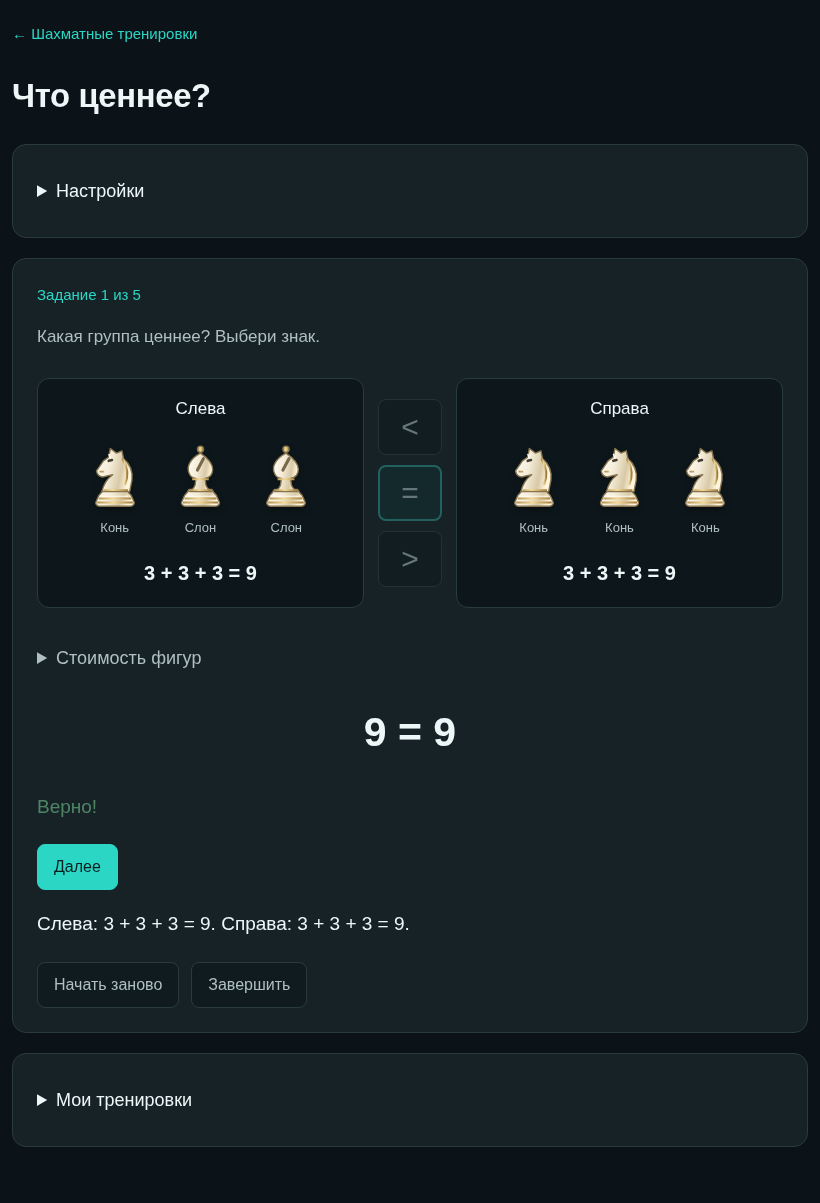
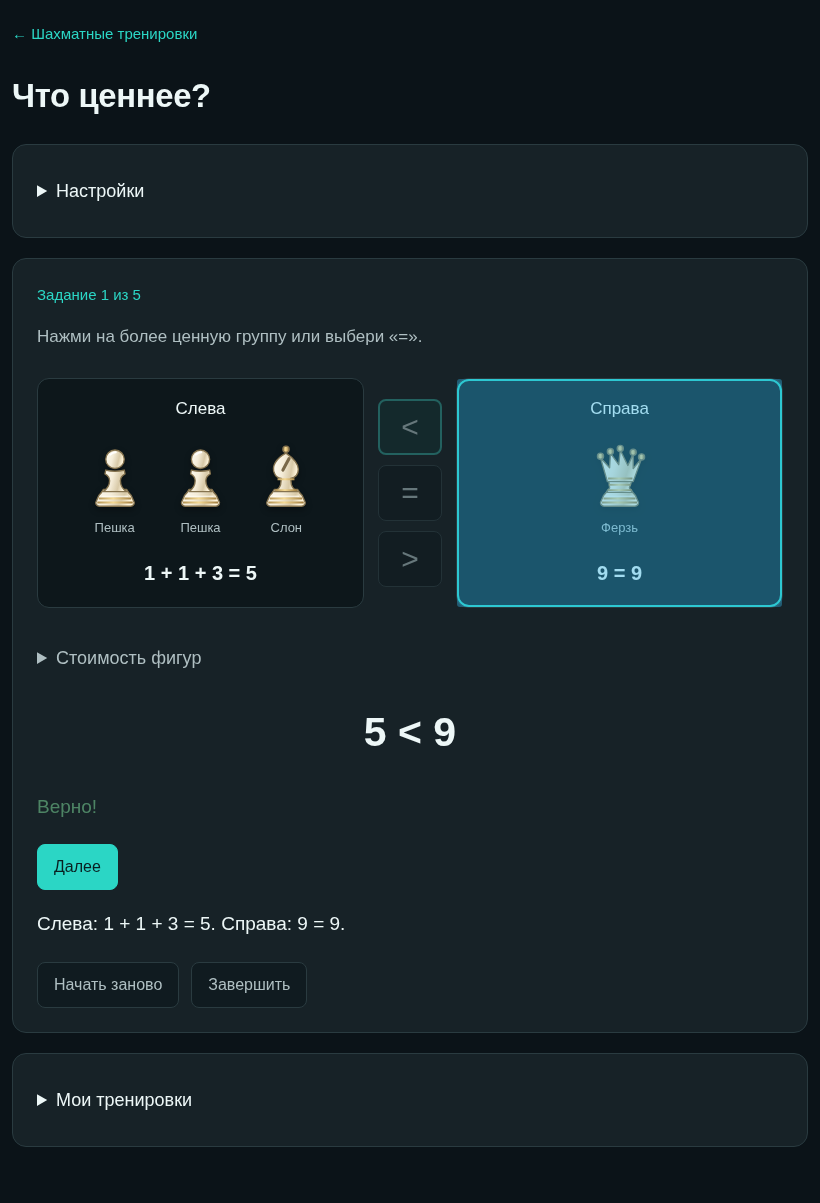
Allow selecting material groups by tapping entire panels

diff --git a/src/modules/mathlab/index.ts b/src/modules/mathlab/index.ts
@@ -238,16 +238,23 @@ function mountExercise(root:HTMLElement,ctx:AppContext,id:Exercise):Unmount {
  }
  function drawMaterial(){
   if(!task?.left||!task.right)return;
-  surface.replaceChildren(el('p',{class:'ml-instruction'},['Какая группа ценнее? Выбери знак.']));
-  const group=(pieces:MaterialPiece[],title:string)=>el('section',{class:'ml-material-group','aria-label':title},[
+  surface.replaceChildren(el('p',{class:'ml-instruction'},['Нажми на более ценную группу или выбери «=».']));
+  const choose=(value:number)=>{
+   if(phase!=='answer'||!task)return;
+   surface.querySelectorAll<HTMLElement>('[data-material-answer]').forEach(control=>control.setAttribute('aria-pressed',String(Number(control.dataset.materialAnswer)===value)));
+   submit(task.answer===value,value===0?'=':value>0?'>':'<');
+  };
+  const group=(pieces:MaterialPiece[],title:string,value:number)=>el('section',{class:'ml-material-group','aria-label':title},[
+   Object.assign(el('button',{type:'button',class:'ml-material-pick','aria-label':value===1?'Выбрать левую группу':'Выбрать правую группу','aria-pressed':'false','data-material-answer':String(value)}),{onclick:()=>choose(value)}),
    el('h3',{},[title]),el('div',{class:'ml-material-pieces'},pieces.map(p=>el('figure',{class:'ml-material-piece'},[el('img',{src:`${import.meta.env.BASE_URL}piece/ivory/w${p}.svg`,alt:PIECE_NAMES[p],draggable:'false'}),el('figcaption',{'aria-hidden':'true'},[PIECE_NAMES[p]])])))
   ]);
   const choices=el('div',{class:'ml-material-choices',role:'group','aria-label':'Сравнение стоимости'});
   for(const [sign,label,value] of [['<','Слева дешевле',-1],['=','Одинаковая стоимость',0],['>','Слева дороже',1]] as const){
-   const choice=button(sign,()=>{if(phase!=='answer')return;choice.setAttribute('aria-pressed','true');submit(task!.answer===value,sign);});
+   const choice=button(sign,()=>choose(value));
+   choice.dataset.materialAnswer=String(value);
    choice.setAttribute('aria-label',label);choice.setAttribute('aria-pressed','false');choices.append(choice);
   }
-  surface.append(el('div',{class:'ml-material-comparison'},[group(task.left,'Слева'),choices,group(task.right,'Справа')]));
+  surface.append(el('div',{class:'ml-material-comparison'},[group(task.left,'Слева',1),choices,group(task.right,'Справа',-1)]));
   const reference=el('details',{class:'ml-material-reference'},[el('summary',{},['Стоимость фигур'])]);
   reference.addEventListener('toggle',()=>{if(reference.open&&phase==='answer')hintUsed=true;});
   reference.append(el('p',{},['Пешка — 1 · Конь — 3 · Слон — 3 · Ладья — 5 · Ферзь — 9']));surface.append(reference);

diff --git a/src/modules/mathlab/styles.css b/src/modules/mathlab/styles.css
@@ -86,3 +86,9 @@
 .mathlab .ml-material-piece{display:flex;flex-direction:column;align-items:center;gap:6px;margin:0;padding:6px 2px}
 .mathlab .ml-material-piece figcaption{font-size:13px;line-height:1.3;color:var(--fg)}
 .mathlab .ml-material-piece img{object-fit:contain;filter:drop-shadow(0 3px 3px #0005)}
+
+.mathlab .ml-material-group{position:relative}
+.mathlab .ml-material-pick{position:absolute;inset:0;z-index:1;width:100%;height:100%;padding:0;border:0;border-radius:inherit;background:transparent;cursor:pointer;touch-action:manipulation}
+.mathlab .ml-material-pick[aria-pressed=true]{background:transparent;box-shadow:inset 0 0 0 2px var(--ml-teal)}
+.mathlab .ml-material-pick:disabled{cursor:default;opacity:1}
+@media(hover:hover){.mathlab .ml-material-pick:not(:disabled):hover{box-shadow:inset 0 0 0 2px var(--ml-teal)}}

diff --git a/docs/material/README.md b/docs/material/README.md
@@ -2,7 +2,7 @@
 
 Шахматные тренировки → Что ценнее?, маршрут `#material`.
 
-Две группы по 1–3 фигуры, стоимость группы не больше 15. Учебная шкала: пешка 1, конь/слон 3, ладья 5, ферзь 9. Король не участвует. Сравнивается только материал, без оценки позиции. Три отношения выбираются с одинаковой вероятностью; равенство включает разные наборы фигур. Ответ — касание `<`, `=` или `>`, после проверки показаны суммы. Следующее задание только по кнопке. Неправильная первая попытка остается ошибкой после повторения.
+Две группы по 1–3 фигуры, стоимость группы не больше 15. Учебная шкала: пешка 1, конь/слон 3, ладья 5, ферзь 9. Король не участвует. Сравнивается только материал, без оценки позиции. Три отношения выбираются с одинаковой вероятностью; равенство включает разные наборы фигур. Ответ — касание более ценной группы целиком (включая свободное место панели) либо кнопок `<`, `=` или `>`. Кнопка `=` обозначает равную стоимость. Панели доступны по Tab, Enter и пробелу и блокируются после ответа; после проверки показаны суммы. Следующее задание только по кнопке. Неправильная первая попытка остается ошибкой после повторения.
 
 Чистая генерация: `src/modules/mathlab/material.ts`. Интерфейс использует имеющийся движок серий, настройки количества и локальное хранение с отдельным идентификатором `material`. Шахматные движки, доска, старые упражнения и их результаты не менялись. Новый тренажер не отображается в MathLab; повторно используется его техническая оболочка. SVG — отдельный авторский набор Ivory: тёплая слоновая кость, тонкая золотистая отделка и подписи фигур, с относительным базовым путем приложения.
 
